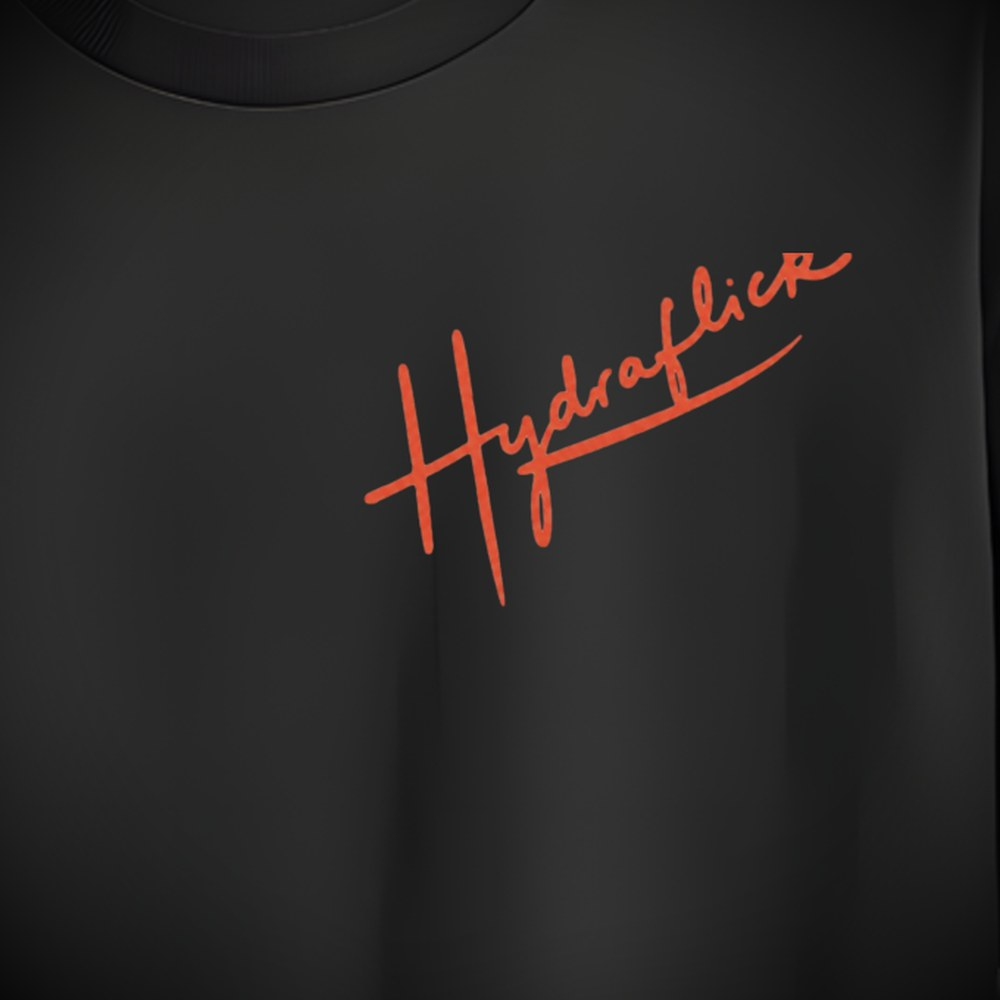
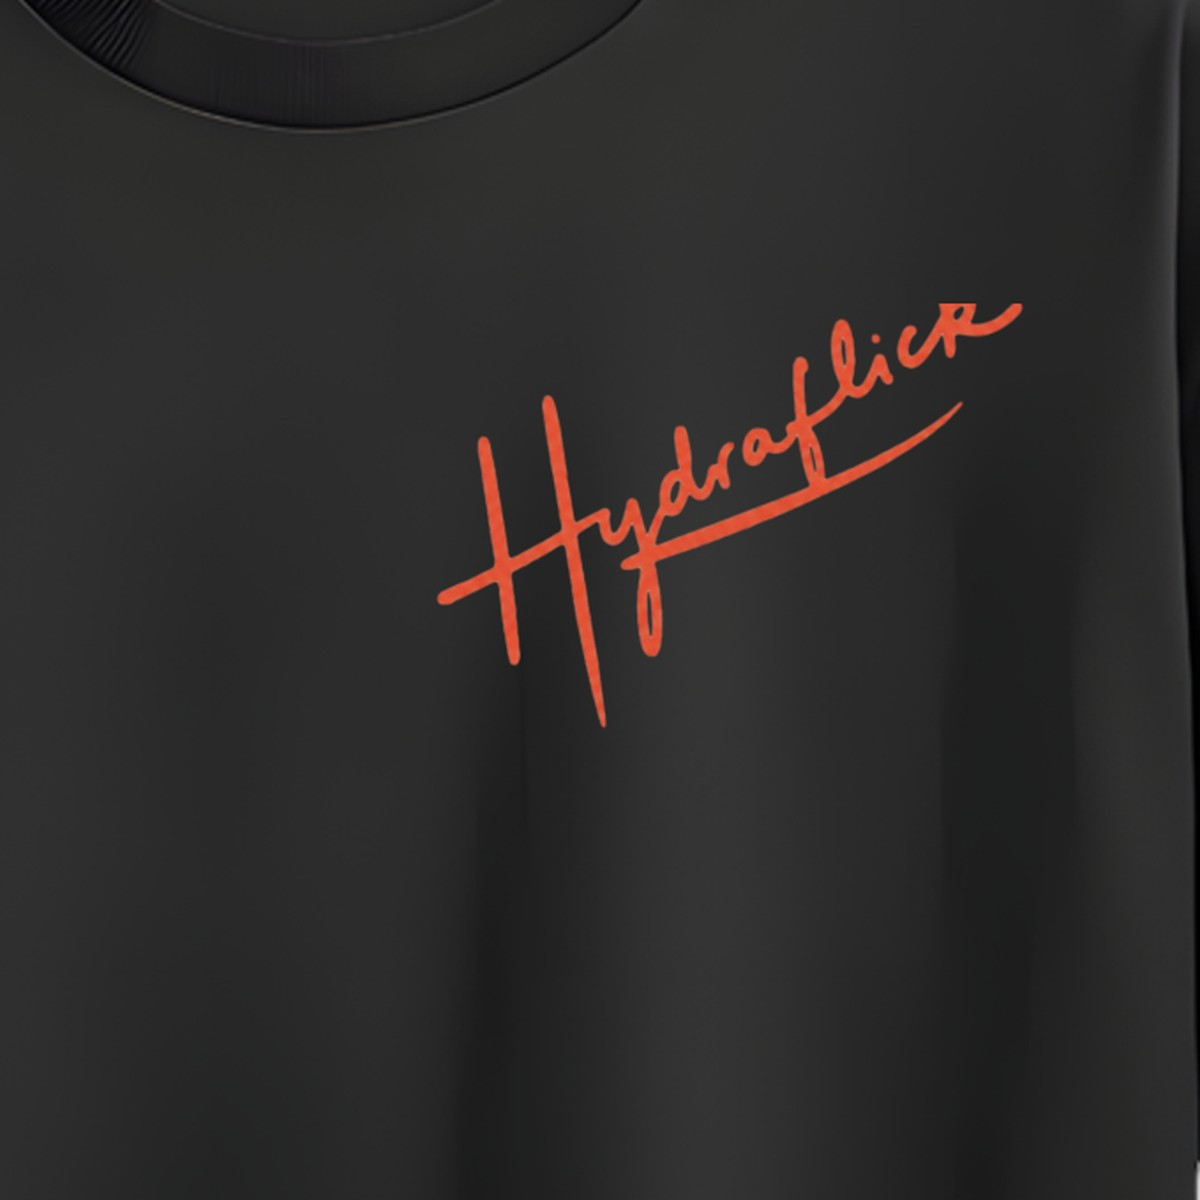
Clean image mode on Signature Script Tee
Removes the dot-texture and dark-fade overlays and re-exports its
photos without the baked vignette, so the un-effected variation can be
compared against the others.

diff --git a/index.html b/index.html
@@ -1315,6 +1315,8 @@
   .mc-art svg{width:62%; height:62%; position:relative; z-index:1; filter:drop-shadow(0 14px 28px rgba(0,0,0,.5)); transition:transform .4s var(--ease-out);}
   @media(hover:hover){ .mcard:hover .mc-art svg{transform:scale(1.06);} }
   .mc-art img{position:absolute; inset:0; width:100%; height:100%; object-fit:cover; transition:transform .4s var(--ease-out);}
+  /* clean mode: no dot texture, no dark fade on top of product photos */
+  .mc-art.clean::after, .mp-main.clean::after{display:none;}
   @media(hover:hover){ .mcard:hover .mc-art img{transform:scale(1.05);} }
   .mc-tag{position:absolute; top:12px; left:12px; z-index:2; font-size:10px; font-weight:800; letter-spacing:.05em; text-transform:uppercase; padding:4px 9px; border-radius:3px; background:#f5c451; color:#241a02;}
   .mc-off{position:absolute; top:12px; right:12px; z-index:2; font-size:12px; font-weight:800; background:#fff; color:#0b0d12; padding:4px 9px; border-radius:4px;}
@@ -3880,7 +3882,7 @@
       photos:['assets/merch/ping-999-flat.jpg','assets/merch/ping-999-card.jpg','assets/merch/ping-999-art.jpg'] }),
     // dark-store image variation (thedarkstore.in style): garment fills the frame, edges melt into the page
     tee({ id:'signature', name:'Signature Script Tee', price:29, mrp:39, rating:4.7, ratings:'980',
-      img:'assets/merch/signature-hero-dark.jpg',
+      img:'assets/merch/signature-hero-dark.jpg', clean:true,
       sub:'Hydraflick’s autograph, across your chest',
       photos:['assets/merch/signature-hero-dark.jpg','assets/merch/signature-detail-dark.jpg','assets/merch/signature-model-dark.jpg','assets/merch/signature-art.jpg'] }),
     tee({ id:'gg-easy', name:'GG… Easy. Tee', price:34, mrp:45, rating:4.8, ratings:'2.3k', tag:'Fan favourite',
@@ -4014,7 +4016,7 @@
     var offPct = Math.round((1 - p.price/p.mrp)*100);
     var art = p.img ? '<img src="'+p.img+'" alt="'+p.name+'" loading="lazy">' : merchSVG(p,0,0);
     return '<div class="mcard" role="button" tabindex="0" data-mid="'+p.id+'" aria-label="'+p.name+'">'+
-      '<div class="mc-art" style="'+(p.img?'':artBG(p,0))+'">'+
+      '<div class="mc-art'+(p.clean?' clean':'')+'" style="'+(p.img?'':artBG(p,0))+'">'+
         (p.tag ? '<span class="mc-tag">'+p.tag+'</span>' : '')+
         '<span class="mc-off">-'+offPct+'%</span>'+
         art+
@@ -4075,6 +4077,7 @@
   var mpMain=document.getElementById('mpMain'), mpThumbs=document.getElementById('mpThumbs');
 
   function renderGallery(){
+    mpMain.classList.toggle('clean', !!mCur.clean);
     if(mCur.photos){
       if(mView >= mCur.photos.length) mView = 0;
       mpMain.setAttribute('style','');
